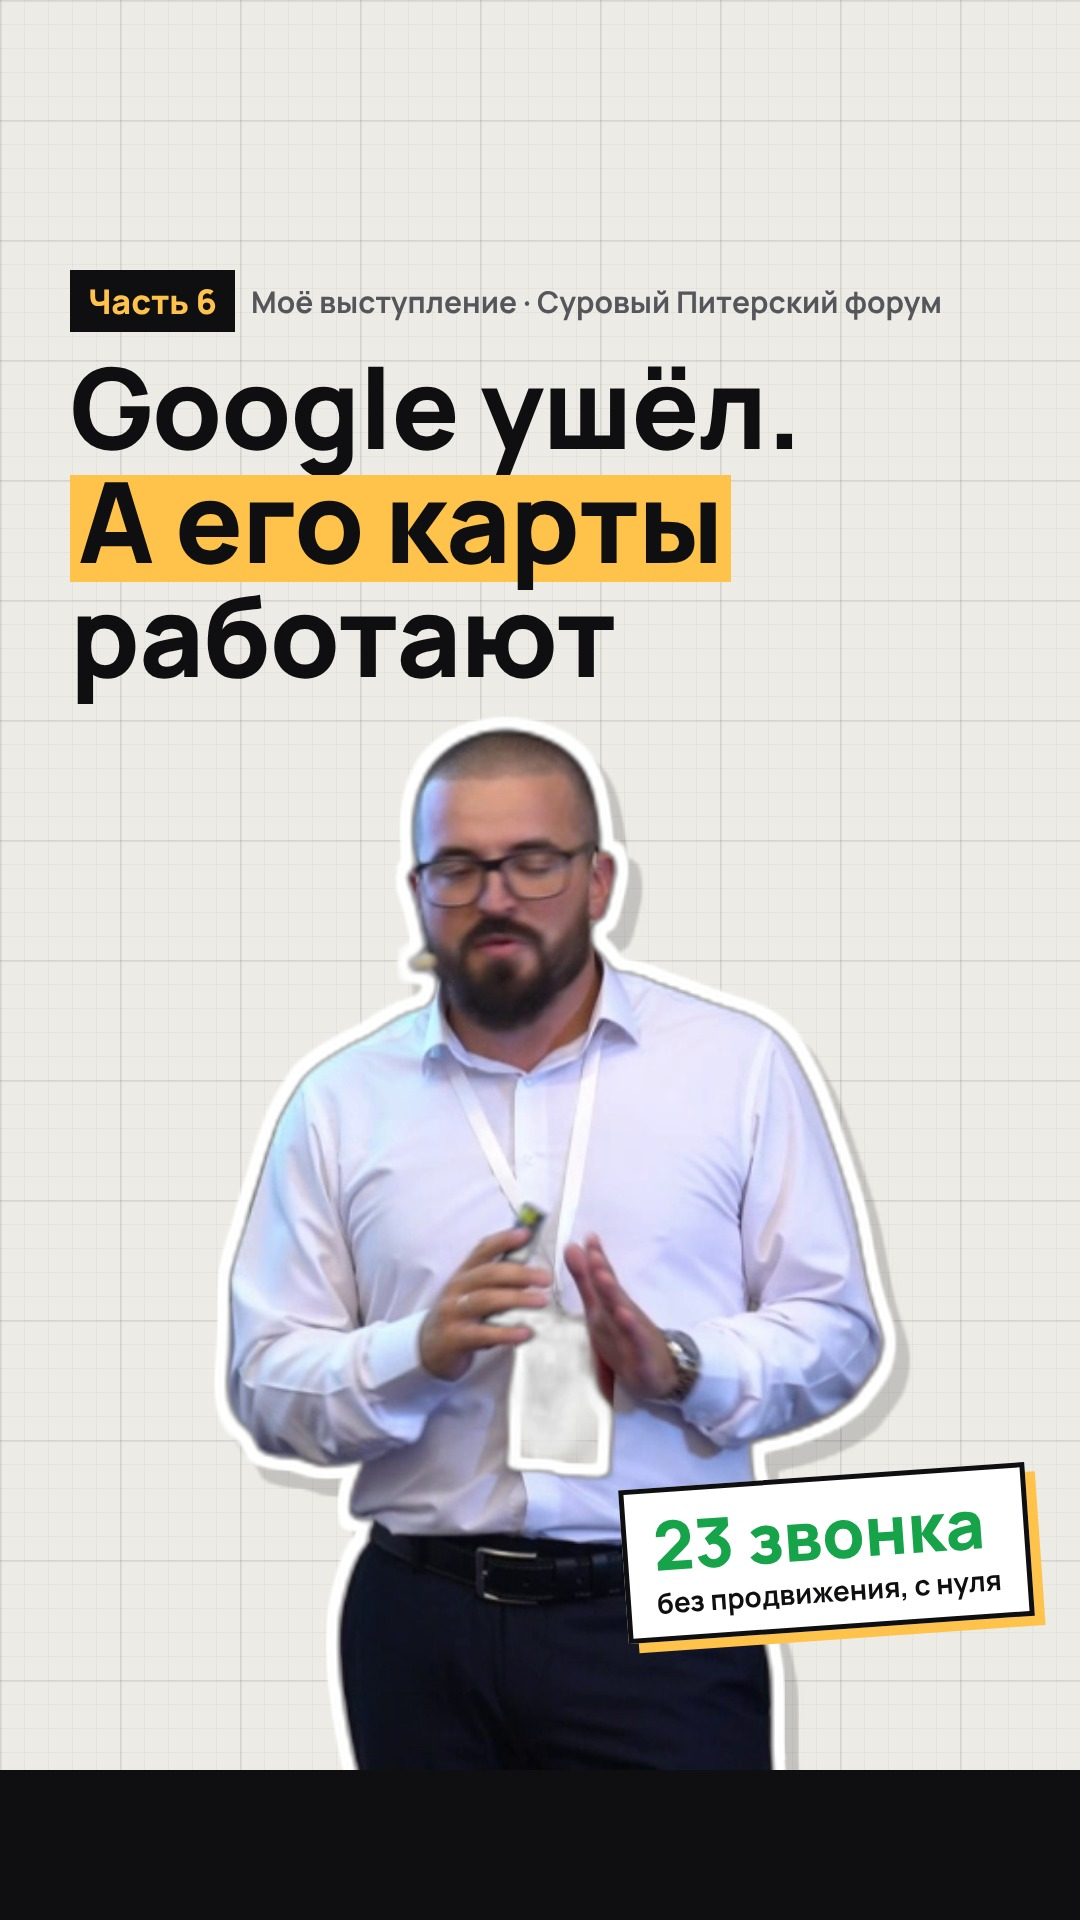
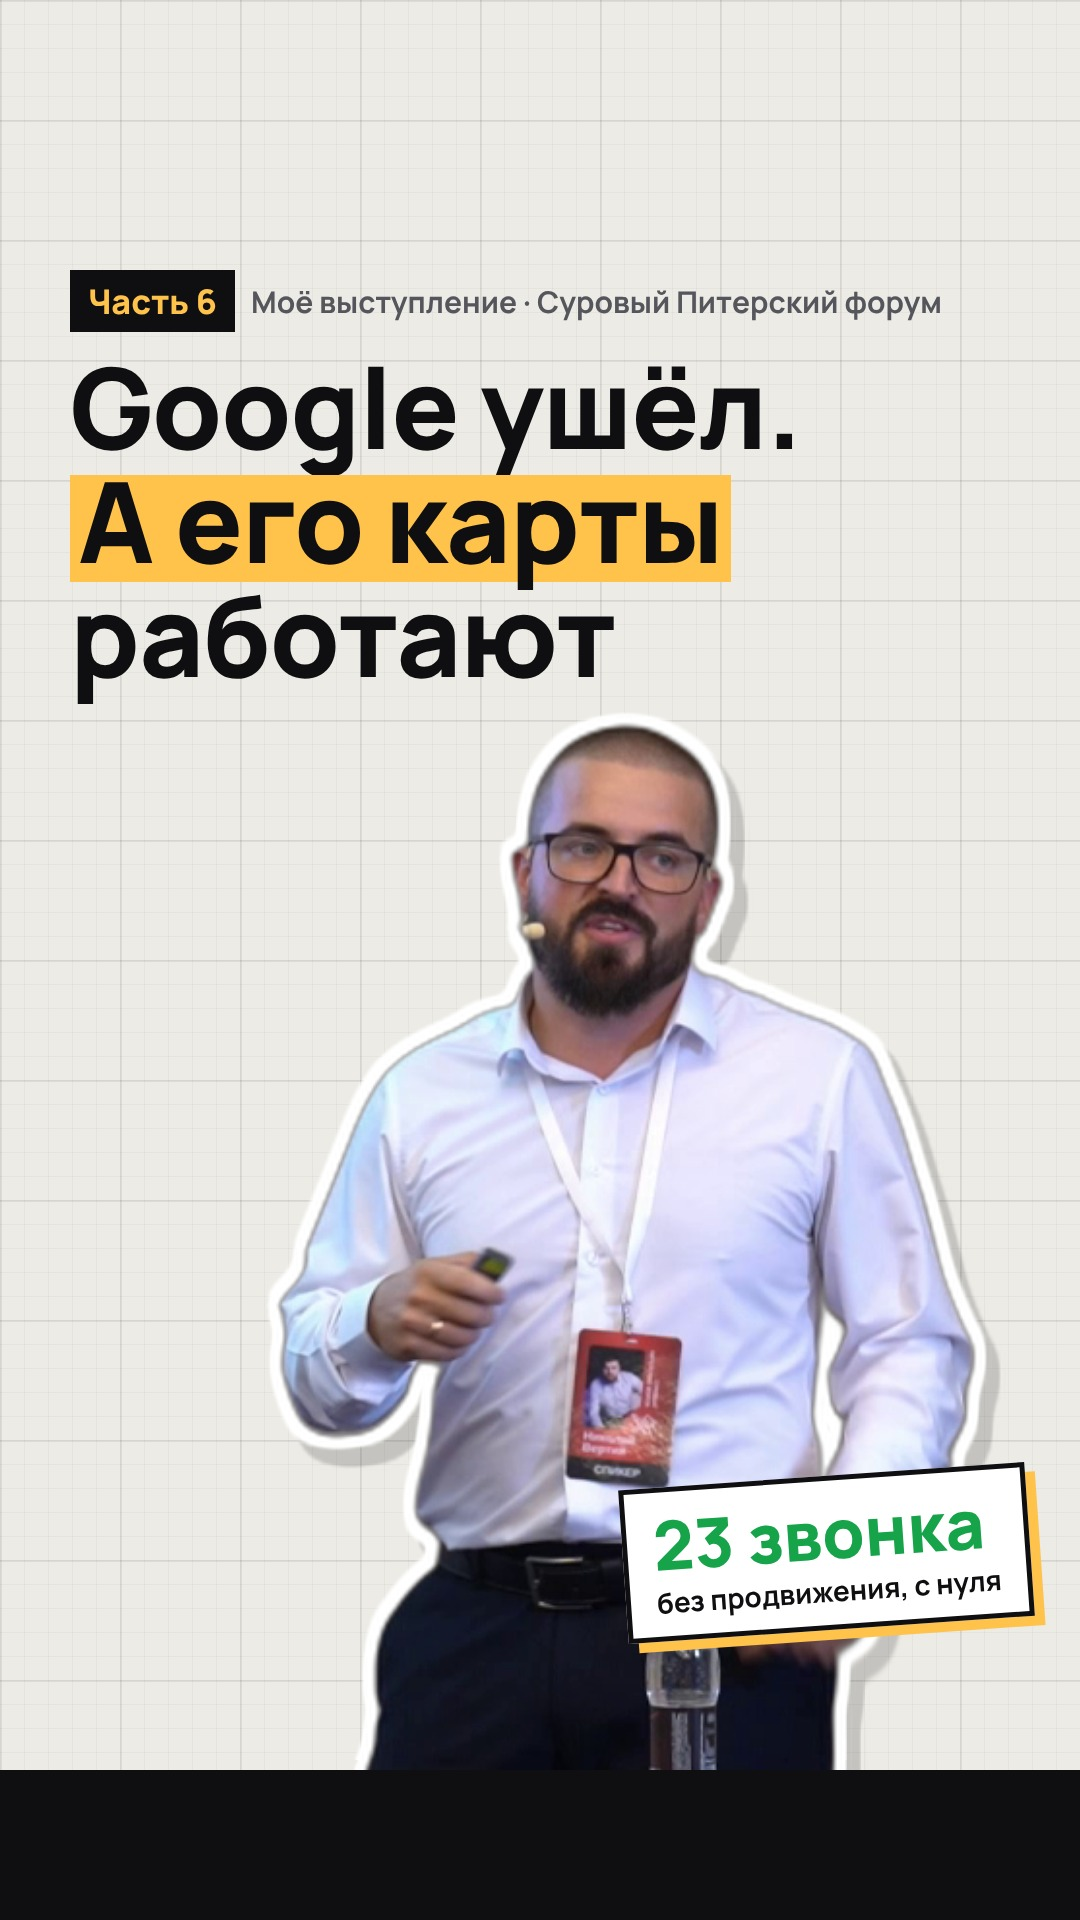
Cover SP06: use frame with open eyes
Claude-Session: https://claude.ai/code/session_01L5ersC6MY2f9vKxfXU8GBH

Changed region(s): [[0.1833, 0.375, 0.9472, 0.9375], [0.5806, 0.8438, 0.825, 0.9375]]

diff --git a/instagram/covers/covers.py b/instagram/covers/covers.py
@@ -6,7 +6,7 @@ covers=[
  ('sp03',480,'Часть 3','Яндекс <mark>сам опускает</mark> тебя в выдаче','<b>88% → 55%</b><i>отказов после работы с рейтингом</i>'),
  ('sp04',545,'Часть 4','Автосалон: лиды по <mark>439&nbsp;₽</mark> с&nbsp;карт','<b>2 318</b><i>лидов за 8 месяцев</i>'),
  ('sp05',595,'Часть 5','Чек-лист: <mark>9&nbsp;пунктов</mark> для Яндекс Карт','<b>Сохрани</b><i>чтобы не потерять</i>'),
- ('sp06',695,'Часть 6','Google ушёл. <mark>А&nbsp;его карты</mark> работают','<b>23 звонка</b><i>без продвижения, с нуля</i>'),
+ ('sp06',690,'Часть 6','Google ушёл. <mark>А&nbsp;его карты</mark> работают','<b>23 звонка</b><i>без продвижения, с нуля</i>'),
 ]
 css='''@font-face{font-family:M;font-weight:800;src:url(manrope-cyrillic-800-normal.woff2)}
 @font-face{font-family:M;font-weight:800;src:url(manrope-latin-800-normal.woff2);unicode-range:U+0000-00FF}
